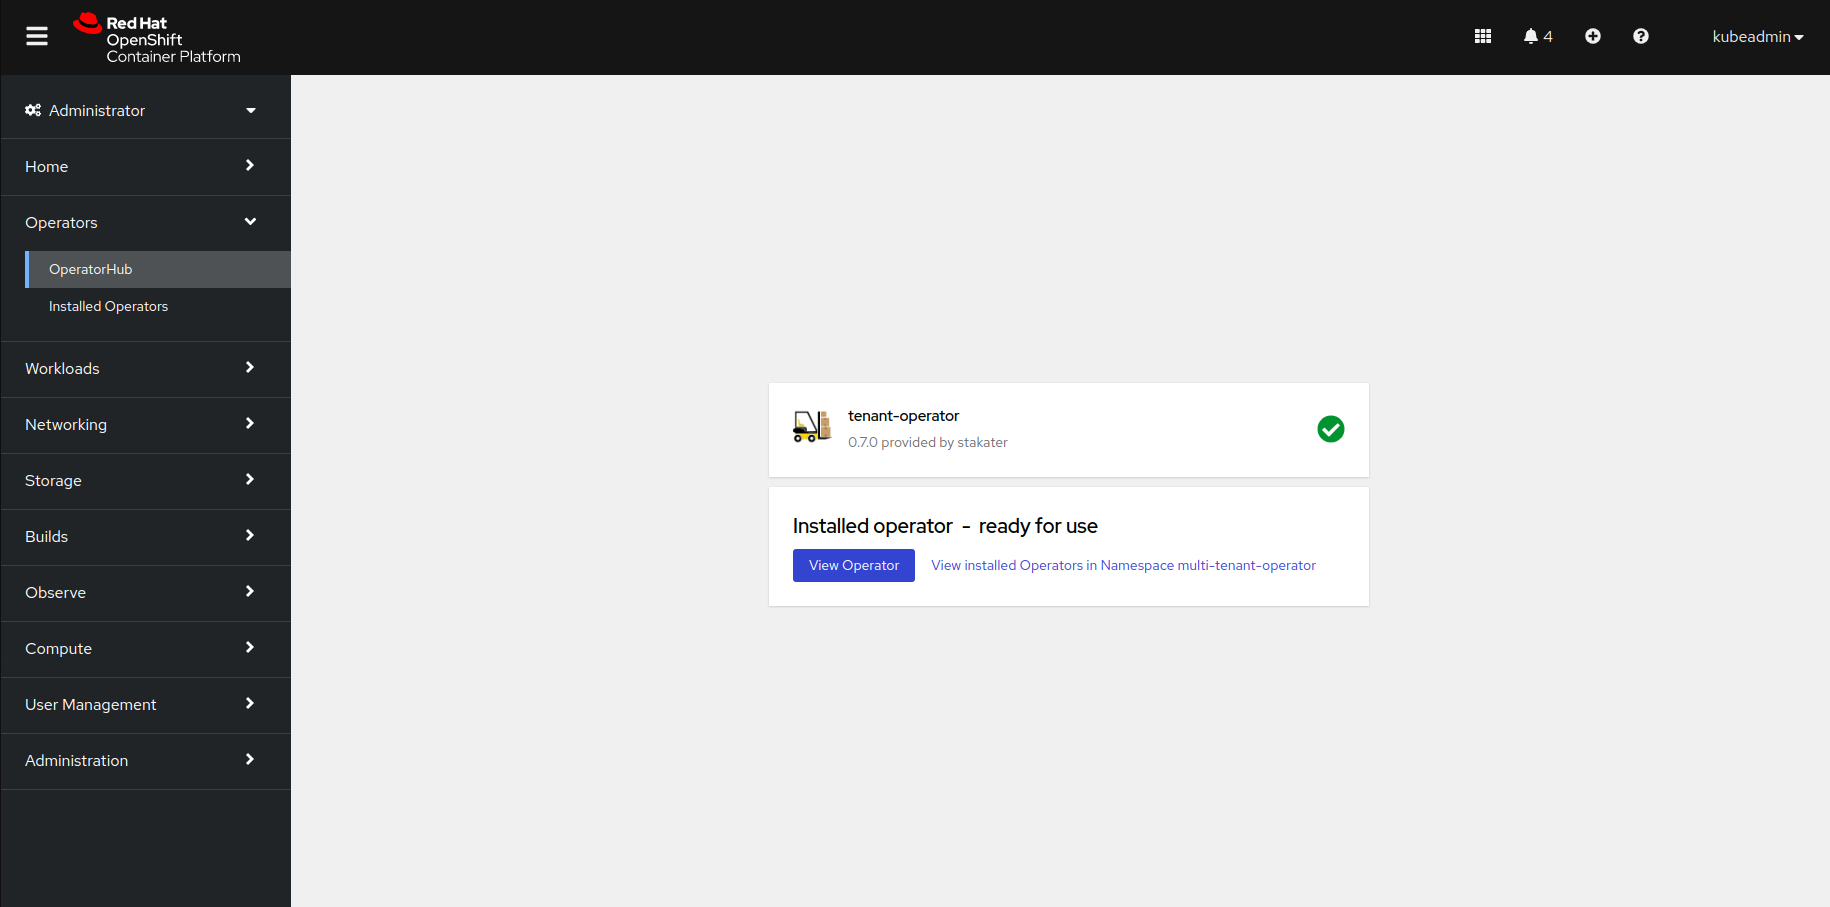
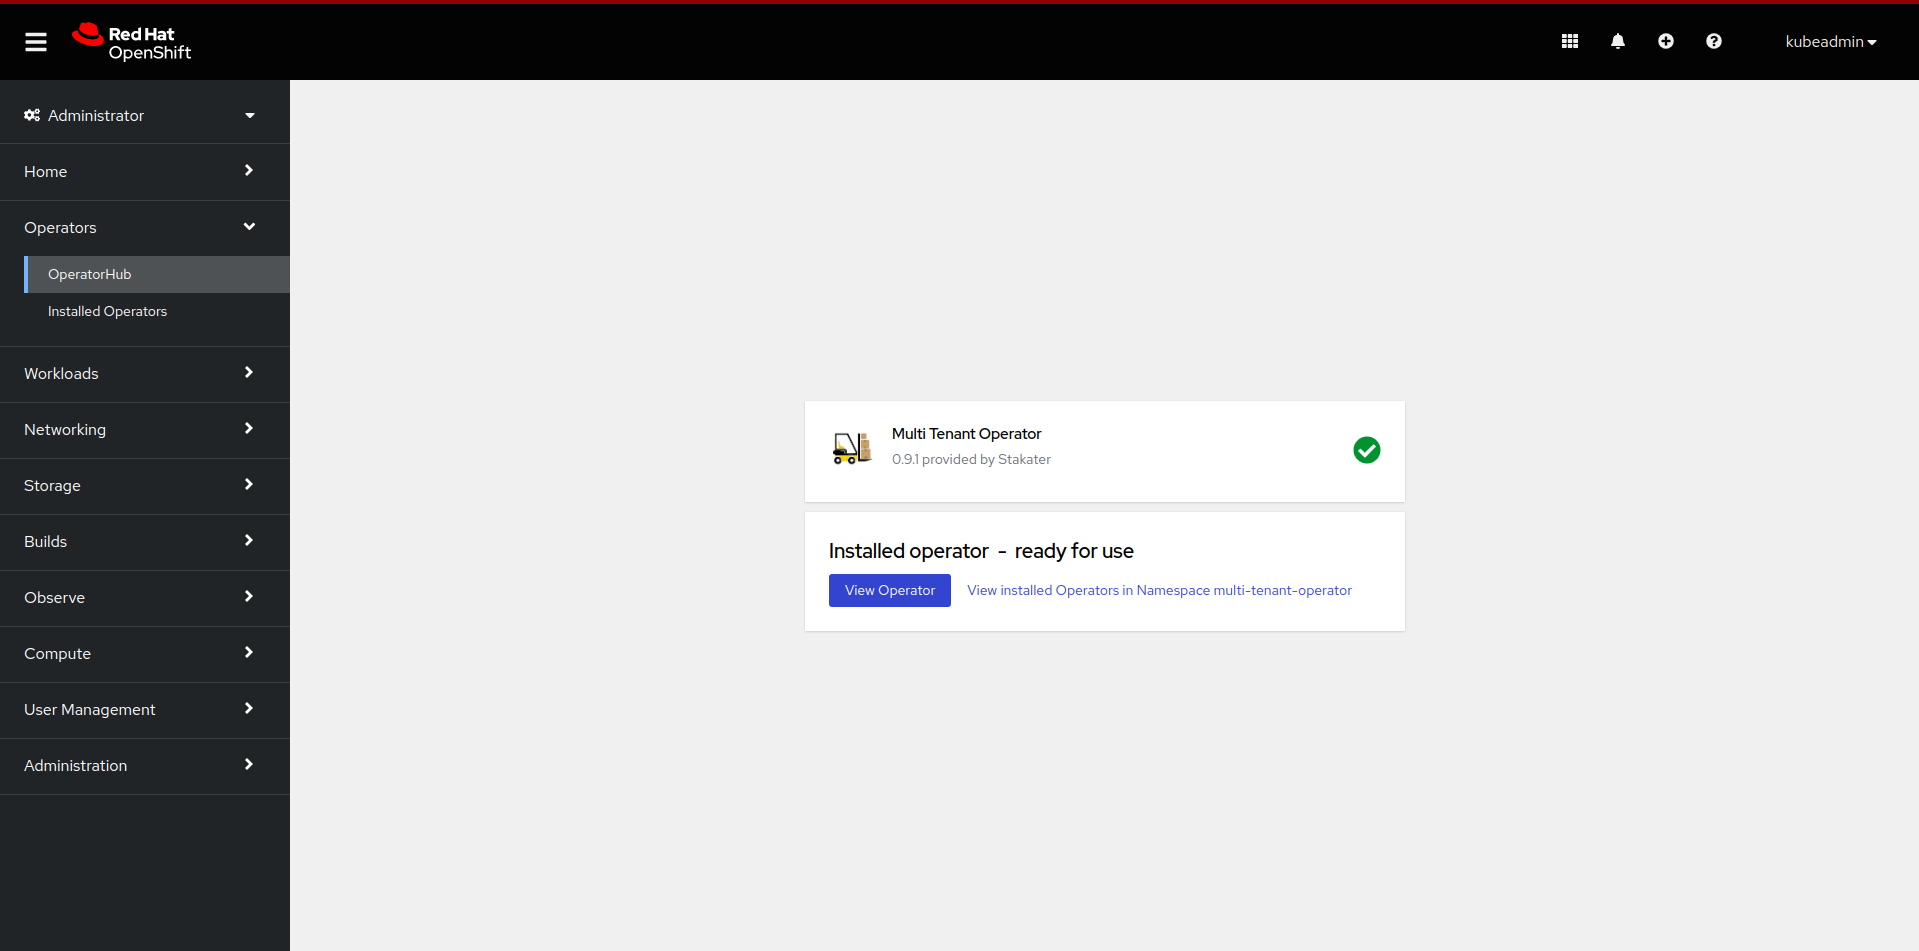
Updated MTO installton steps

diff --git a/content/installation.md b/content/installation.md
@@ -1,28 +1,25 @@
 # Installation
 
-This document contains instructions on installing and configuring Multi Tenant Operator using OpenShift MarketPlace or Helm. Following are the 4 different ways available:
+This document contains instructions on installing, uninstalling and configuring Multi Tenant Operator using OpenShift MarketPlace.
 
-1. [OpenShift OperatorHub](#installing-via-operatorhub)
+1. [OpenShift OperatorHub UI](#installing-via-operatorhub-ui)
 
 2. [Subscription](#installing-via-subscription)
 
-3. [Helm](#installing-via-helm)
+3. [Uninstall](#uninstall-via-operatorhub-ui)
 
-4. [HelmRelease](#installing-via-helm-release)
 
 ## Requirements
 
-* An **OpenShift** cluster [v4.7 - v4.11]
-* [**Helm-CLI**](https://helm.sh/docs/intro/install/) (Optional: *[For installing via Helm](#installing-via-helm)*)
-* **Helm-Operator** (Optional: *[For installing via Helm release](#installing-via-helm-release)*)
+* An **OpenShift** cluster [v4.7 - v4.12]
 
-## Installing via OperatorHub
+## Installing via OperatorHub UI
 
 * After opening OpenShift console click on `Operators`, followed by `OperatorHub` from the side menu
 
 ![image](./images/operatorHub.png)
 
-* Now search for `tenant-operator` and then click on `tenant-operator`
+* Now search for `Multi Tenant Operator` and then click on `Multi Tenant Operator` tile
 
 ![image](./images/search_tenant_operator_operatorHub.png)
 
@@ -30,7 +27,9 @@ This document contains instructions on installing and configuring Multi Tenant O
 
 ![image](./images/to_install_1.png)
 
-* Select `multi-tenant-operator` to install the operator in `multi-tenant-operator` project from `Installed Namespace` dropdown menu. After configuring `Update approval` click on the `install` button.
+* Select `Updated channel`. Select `multi-tenant-operator` to install the operator in `multi-tenant-operator` namespace from `Installed Namespace` dropdown menu. After configuring `Update approval` click on the `install` button.
+
+> Note: Use `stable` channel for seamless upgrades. For `Production Environment` prefer `Manual` approval and use `Automatic` for `Development Environment`
 
 ![image](./images/to_install_2.png)
 
@@ -71,26 +70,6 @@ spec:
 ```
 
 For more details and configurations check out [IntegrationConfig](./integration-config.md).
-
-> ⚠ A default IntegrationConfig with the name `tenant-operator-config` will be present in MTO's installed namespace
-
-### Uninstall
-
-You can uninstall MTO by following these steps:
-
-* Decide on whether you want to retain tenant namespaces or not. If yes, please set `spec.onDelete.cleanNamespaces` to `false` for all those tenants whose namespaces you want to retain. For more details check out [onDelete](./usecases/tenant.md#retaining-tenant-namespaces-when-a-tenant-is-being-deleted)
-
-* After making the required changes open OpenShift console and click on `Operators`, followed by `Installed Operators` from the side menu
-
-![image](./images/installed-operators.png)
-
-* Now click on uninstall and confirm uninstall.
-
-![image](./images/uninstall-from-ui.png)
-
-* Now the operator has been uninstalled.
-
-* `Optional:` you can also manually remove MTO's CRDs and its resources from the cluster.
 
 ## Installing via Subscription
 
@@ -169,150 +148,26 @@ spec:
 
 For more details and configurations check out [IntegrationConfig](./integration-config.md).
 
-> ⚠ A default IntegrationConfig with the name `tenant-operator-config` will be present in MTO's installed namespace
 
-### Uninstall
+## Uninstall via OperatorHub UI
 
 You can uninstall MTO by following these steps:
 
 * Decide on whether you want to retain tenant namespaces or not. If yes, please set `spec.onDelete.cleanNamespaces` to `false` for all those tenants whose namespaces you want to retain. For more details check out [onDelete](./usecases/tenant.md#retaining-tenant-namespaces-when-a-tenant-is-being-deleted)
 
-* Delete the subscription resource
-
-```bash
-oc delete subscription tenant-operator -n multi-tenant-operator
-subscription.operators.coreos.com "tenant-operator" deleted
-```
-
-* Now open OpenShift console and click on `Operators`, followed by `Installed Operators` from the side menu
+* After making the required changes open OpenShift console and click on `Operators`, followed by `Installed Operators` from the side menu
 
 ![image](./images/installed-operators.png)
 
-* Now click on delete ClusterServiceVersion and confirm delete.
+* Now click on uninstall and confirm uninstall.
 
-![image](./images/uninstall-from-ui-csv.png)
+![image](./images/uninstall-from-ui.png)
 
 * Now the operator has been uninstalled.
 
 * `Optional:` you can also manually remove MTO's CRDs and its resources from the cluster.
 
-## Installing via Helm
-
-### 1. Create Namespace
-
-```bash
-oc create namespace stakater-tenant-operator
-```
-
-Create a new namespace `stakater-tenant-operator`, where MTO will be deployed.
-
-### 2. Create Secret
-
-```bash
-oc apply -f stakater-docker-secret.yaml
-```
-
-Create a secret called `stakater-docker-secret` in *stakater-tenant-operator* namespace to pull MTO image from Docker Hub.
-
-*The secret will be provided by **Stakater***
-
-### 3. Add Helm Repository
-
-In order to install MTO with Helm, first add the Stakater Helm repository.
-
-```bash
-helm repo add stakater https://stakater.github.io/stakater-charts
-```
-
-Scan the new repository for charts.
-
-```bash
-helm repo update
-```
-
-### 4. Install Multi Tenant Operator
-
-```bash
-helm repo update
-
-helm install tenant-operator stakater/tenant-operator --namespace stakater-tenant-operator \
---set image.repository=stakaterdockerhubpullroot/tenant-operator \
---set imagePullSecrets[0].name=stakater-docker-secret \
---set resources.limits.cpu=1000m \
---set resources.limits.memory=2Gi \
---set resources.requests.cpu=100m \
---set resources.requests.memory=128Mi \
---set integrationConfig.create=true
-```
-
-Once the image has been pulled `Multi Tenant Operator` will be ready for use.
-
-### 5. Configuring IntegrationConfig
-
-A default `IntegrationConfig` is installed with MTO, which can be found in `stakater-tenant-operator` namespace under the name `tenant-operator-config`. For more details check out [IntegrationConfig](./integration-config.md).
-
-## Installing via Helm Release
-
-### 1. Create Namespace
-
-```bash
-oc create namespace stakater-tenant-operator
-```
-
-Create a new namespace `stakater-tenant-operator`, where MTO will be deployed.
-
-### 2. Create Secret
-
-```bash
-oc apply -f -n stakater-tenant-operator stakater-docker-secret.yaml
-```
-
-Create a secret called `stakater-docker-secret` in *stakater-tenant-operator* namespace to pull MTO image from Docker Hub.
-
-*The secret will be provided by **Stakater***
-
-### 3. Create Multi Tenant Operator Helm Release
-
-```yaml
-apiVersion: helm.fluxcd.io/v1
-kind: HelmRelease
-metadata:
-  name: tenant-operator
-  namespace: stakater-tenant-operator
-spec:
-  releaseName: stakater
-  chart:
-    repository: https://stakater.github.io/stakater-charts
-    name: tenant-operator
-    version: 0.7.0
-  values:
-    integrationConfig:
-      create: true
-    image:
-      repository: stakaterdockerhubpullroot/tenant-operator
-      tag:  v0.7.0
-      pullPolicy: IfNotPresent
-    imagePullSecrets:
-    - name: stakater-docker-secret
-    resources:
-      limits:
-        cpu: 1000m
-        memory: 2Gi
-      requests:
-        cpu: 100m
-        memory: 128Mi
-```
-
-This Helm release will deploy MTO.
-
-Once the image has been pulled `Multi Tenant Operator` will be ready for use.
-
-### 4. Configuring IntegrationConfig
-
-A default `IntegrationConfig` is installed with MTO, which can be found in `stakater-tenant-operator` namespace under the name `tenant-operator-config`. For more details check out [IntegrationConfig](./integration-config.md).
-
 ## Notes
 
-* If MTO is deployed in a newly created namespace, restart its pod once so MTO can retrieve webhook-server-cert provided by OpenShift (if the pod is started before the secret was made).
 * For more details on how to use MTO please refer [use-cases](./usecases/quota.md).
 * For more details on how to extend your MTO manager ClusterRole please refer [use-cases](./usecases/manager-clusterrole.md).
